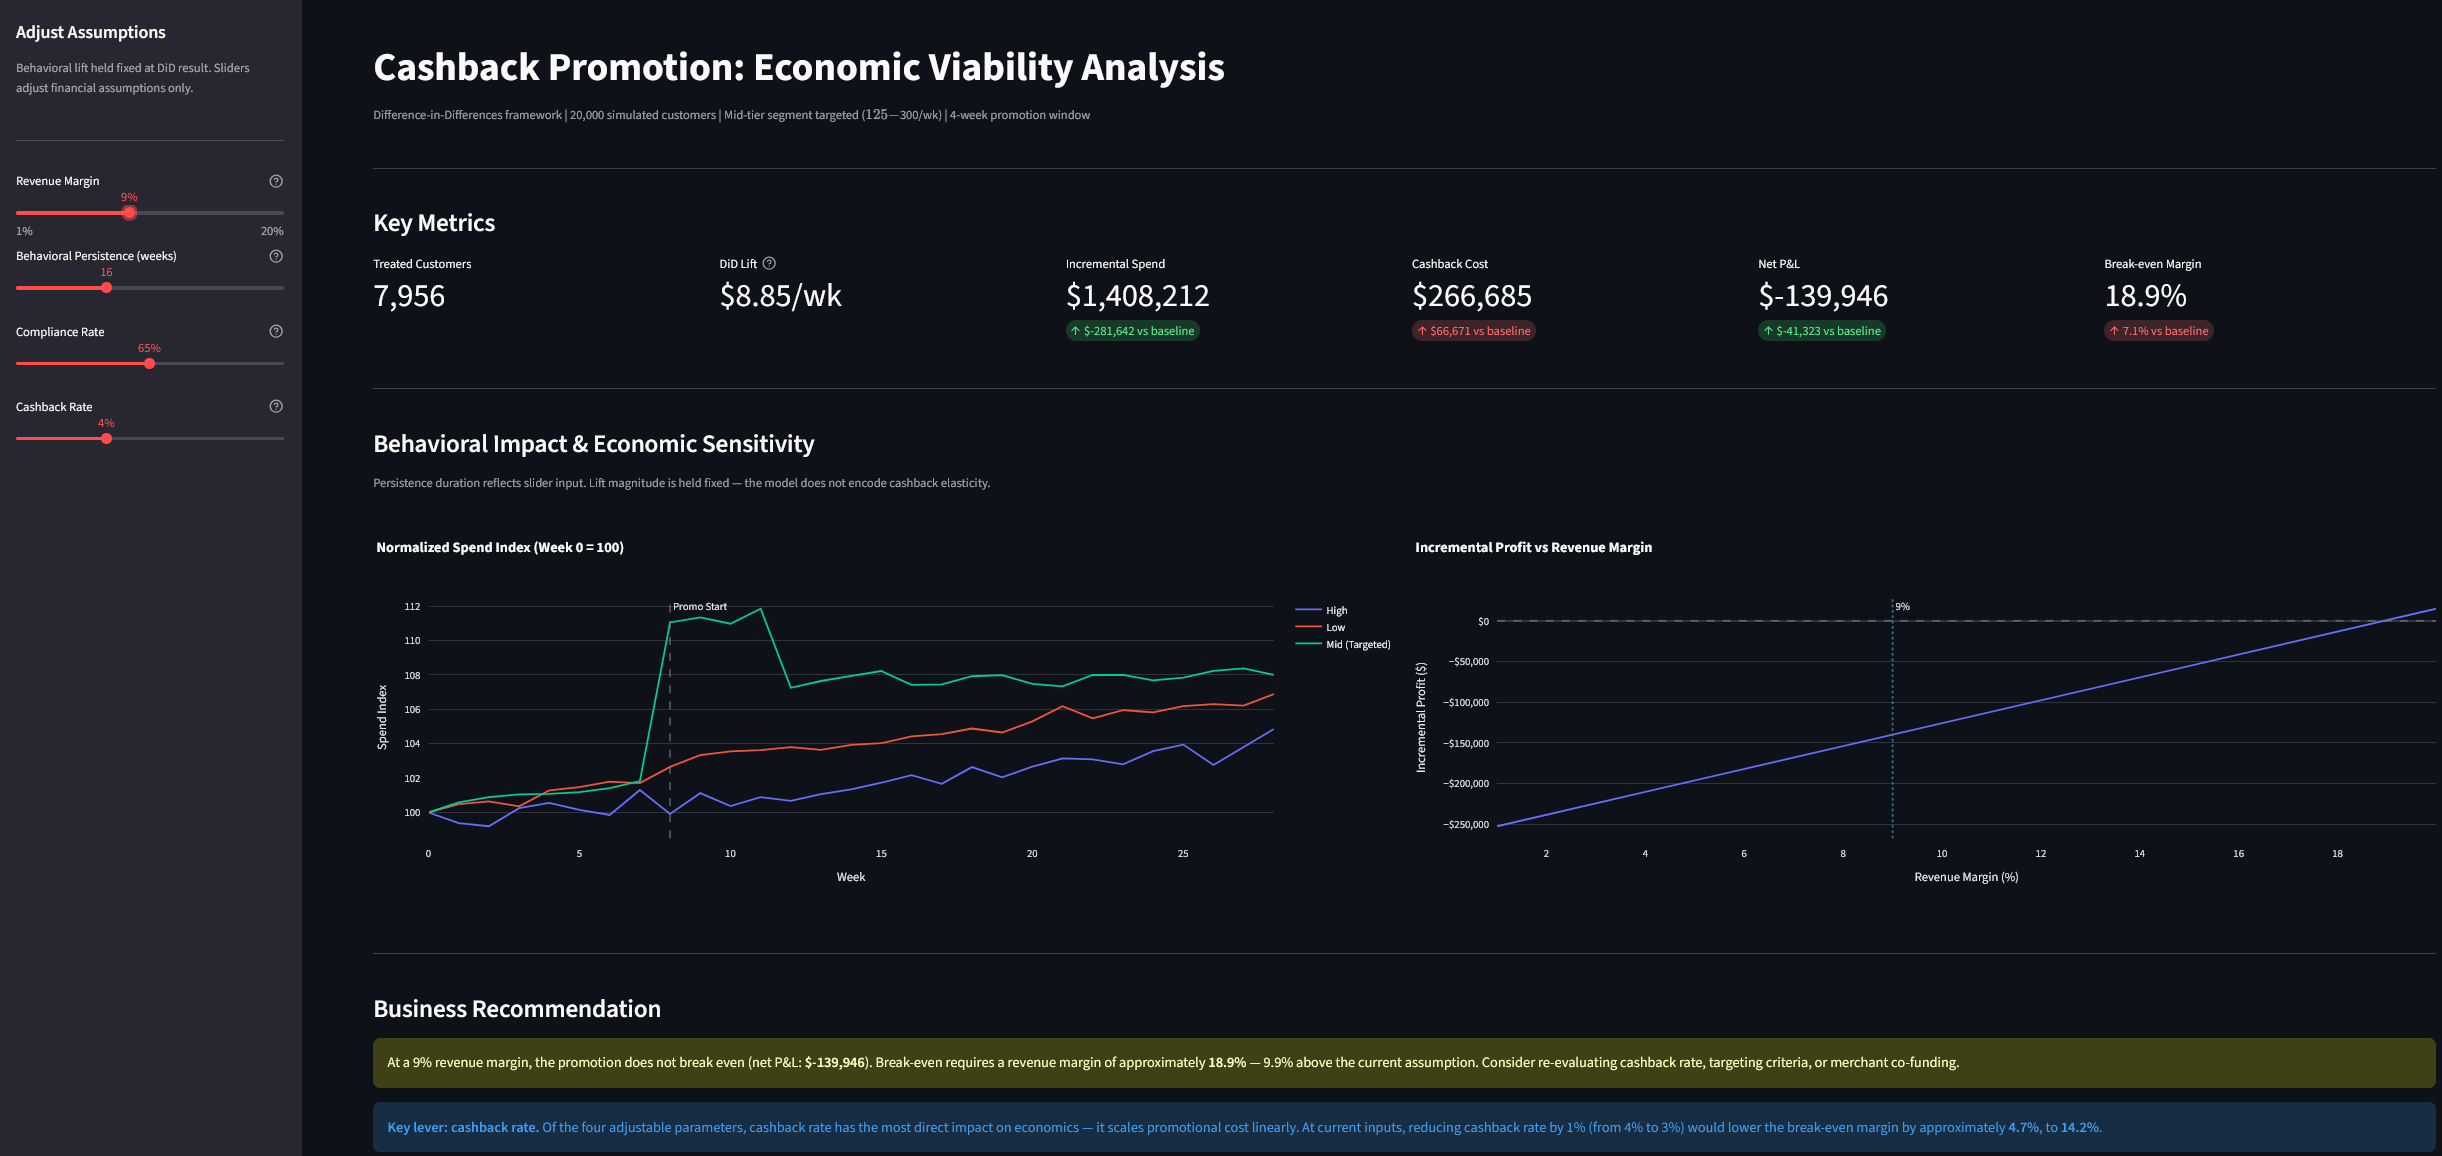
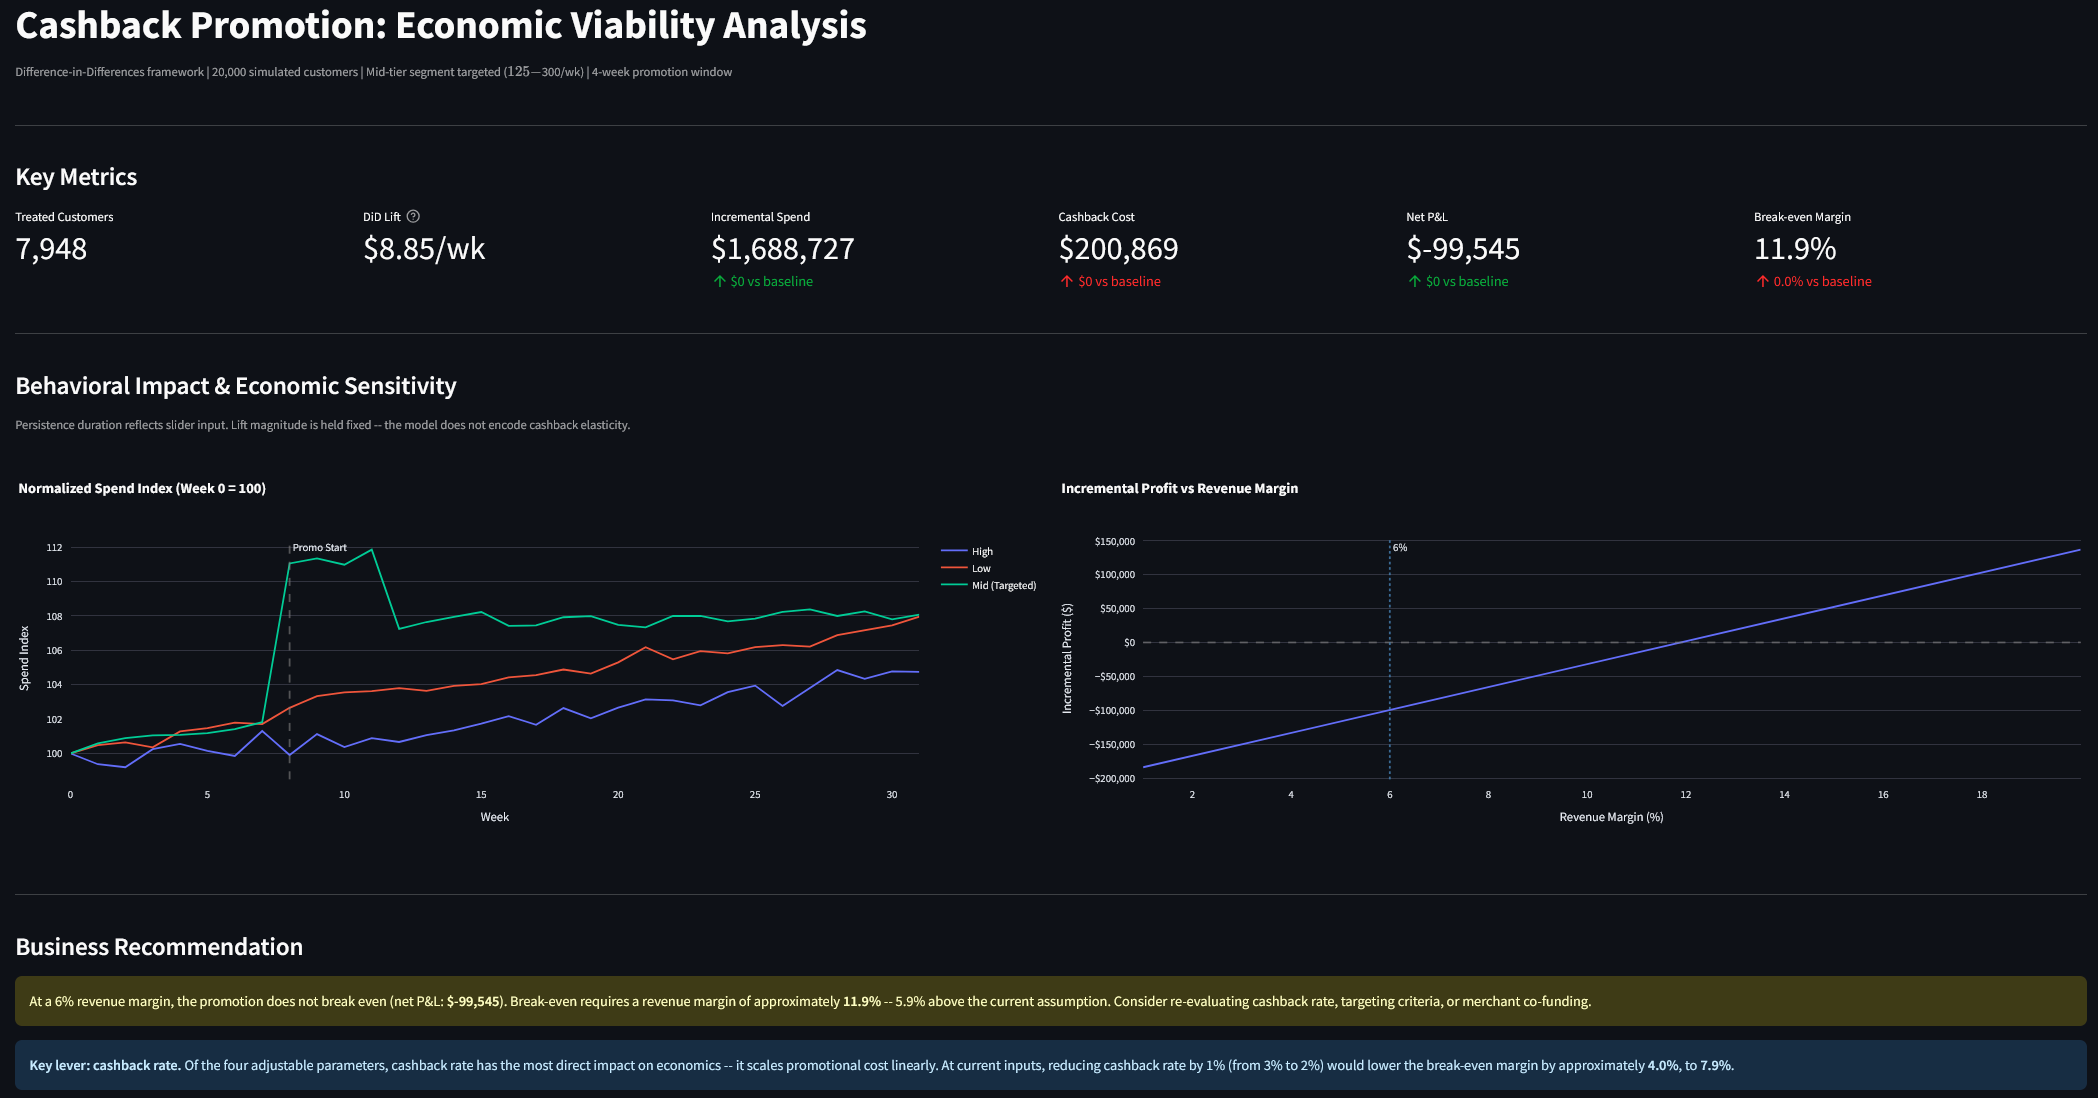
Update docs, requirements and license for portfolio release
README gains a Ground-Truth Validation section, setup steps and two limitations. Pin minimum package versions and add pyarrow and pytest. Add MIT license, refresh dashboard screenshot, bring CLAUDE.md and CHANGELOG up to date.

diff --git a/README.md b/README.md
@@ -40,7 +40,7 @@ Below is normalized spend by segment (Week 0 = 100):
 
 Key observations:
 
-- Parallel pre-trends across segments
+- Parallel pre-trends across segments (in percentage terms; see Ground-Truth Validation for why this matters)
 - Clear mid-tier lift at promotion start
 - Gradual behavioral decay after incentive removal
 - No meaningful effect in non-targeted segments
@@ -62,6 +62,29 @@ Margin sensitivity:
 ![Margin Sensitivity](outputs/figures/margin_sensitivity.png)
 
 Break-even revenue margin required: **~12%**
+
+---
+
+## Ground-Truth Validation
+
+Because the data is simulated, the true causal effect is knowable. `src/validation.py` re-runs the simulation with identical random seeds but the promotion switched off; the difference in treated spend is exactly what the promotion caused.
+
+| Measure | $ / treated customer / week |
+|---|---|
+| DiD estimate | 8.85 |
+| **True causal lift** | **5.91** |
+| Bias (DiD on the no-promotion panel) | 2.94 |
+| &nbsp;&nbsp;from regression-to-mean drift | 1.97 |
+| &nbsp;&nbsp;from level trends + selection | 0.97 |
+
+**DiD overstates the true lift by ~50%.** For a 2x2 DiD the decomposition is exact (`DiD = true lift + placebo DiD`), and the pipeline asserts it on every run.
+
+Two sources of bias:
+
+- **Regression-to-mean drift.** The simulation applies a 1% post-period upward drift to every treated customer. It is indistinguishable from a treatment effect, so DiD absorbs it.
+- **Non-parallel trends in levels.** The macro trend is multiplicative, so higher-spending treated customers gain more *dollars* than control even with identical *percentage* growth. The normalized chart above shows parallel trends in percentages; the regression runs in dollars. Selecting the treated group on noisy pre-period spend adds a small mean-reversion component.
+
+**Implication:** the business conclusion strengthens. At the true lift, break-even margin rises from ~12% to **~18%**. The headline figures above are kept as the DiD estimate because that is what an analyst would observe without ground truth — which is the point. In a real deployment, a log-spend specification or a randomized holdout within the targeted segment would remove most of this bias.
 
 ---
 
@@ -88,6 +111,8 @@ Profitability depends critically on:
 - Compliance rate is modeled as a fixed parameter. In practice, compliance is likely correlated with spend tier and incentive magnitude.
 - Customer independence is assumed. Network or social effects on spending behavior are not modeled.
 - Behavioral persistence follows a pre-specified decay curve. Actual post-promotion decay would vary by customer segment and require holdout measurement.
+- The DiD estimate is biased upward by ~50% relative to the simulation's ground truth (see Ground-Truth Validation). Reported economics use the DiD estimate, so they are optimistic.
+- The dashboard scales a single pooled average lift linearly with persistence weeks. Because the true lift decays, shortening persistence understates the average weekly lift slightly.
 
 ---
 
@@ -114,15 +139,21 @@ streamlit run dashboard.py
 ## Project Structure
 
 ```
-main.py
-dashboard.py
+main.py                   # runs simulation, analysis, validation; writes outputs/
+dashboard.py              # Streamlit app
 src/
-    config.py
-    generate_data.py
-    analysis.py
-    finance.py
-    visuals.py
-    illustrative.py
+    config.py             # all simulation and financial parameters
+    generate_data.py      # customer panel simulation
+    analysis.py           # DiD regression and diagnostics
+    finance.py            # incremental revenue vs. cashback cost
+    validation.py         # ground-truth check of the DiD estimate
+    illustrative.py       # dashboard financial layer (reads simulation_results.json)
+    visuals.py            # matplotlib (static) and Plotly (dashboard) charts
+tests/
+    test_illustrative.py
+outputs/
+    simulation_results.json
+    figures/
 docs/
     dashboard_screenshot.png
 ```
@@ -132,12 +163,22 @@ docs/
 ## How to Run
 
 ```bash
-# Run simulation and generate figures (required before dashboard)
+# Set up environment
+python -m venv .venv
+.venv\Scripts\activate          # Windows; use `source .venv/bin/activate` on macOS/Linux
+python -m pip install -r requirements.txt
+
+# Run simulation, analysis, and validation; regenerates figures and results JSON
 python main.py
 
 # Launch interactive dashboard
 streamlit run dashboard.py
+
+# Run tests
+python -m pytest
 ```
+
+Committed outputs let the dashboard run on a fresh clone; `main.py` regenerates them deterministically (seed 42).
 
 ---
 
@@ -148,9 +189,14 @@ streamlit run dashboard.py
 - statsmodels
 - matplotlib, plotly
 - streamlit
+- pytest
 
 ---
 
 ## Acknowledgements
 
 Developed with [Claude Code](https://claude.com/claude-code) (Anthropic).
+
+## License
+
+MIT -- see [LICENSE](LICENSE).

diff --git a/CLAUDE.md b/CLAUDE.md
@@ -2,8 +2,9 @@
 
 ## Project Status
 
-Two-phase project. Phase 1 (simulation + DiD analysis) is complete.
-Phase 2 (Streamlit dashboard) is planned in PHASE_TWO.md and not yet built.
+Complete. Phase 1 (simulation + DiD analysis) and Phase 2 (Streamlit
+dashboard) are both built; see CHANGELOG.md for history. The repo is
+portfolio-facing, so README accuracy matters.
 
 ---
 
@@ -15,22 +16,40 @@ The dashboard does NOT re-run the simulation on slider change.
 Sliders recalculate the financial layer only:
 
 ```
-incremental_spend = lift * compliant_customers * sum(decay_weights)
-cashback_cost     = cashback_rate * total_treated_spend
+adjusted_lift     = did_lift * (compliance / 0.65)
+incremental_spend = adjusted_lift * treated_customers * (4 + persistence_weeks)
+cashback_cost     = cashback_rate * avg_treated_promo_spend * treated_customers * 4
 net_profit        = (incremental_spend * margin) - cashback_cost
 break_even_margin = cashback_cost / incremental_spend
 ```
 
-This logic will live in `src/illustrative.py`. Do not propose re-running
-`generate_data.py` or `analysis.py` in response to slider input.
+This logic lives in `src/illustrative.py`, which reads its fixed inputs from
+`outputs/simulation_results.json` (written by `main.py`). Do not hard-code
+simulation outputs there. Do not propose re-running `generate_data.py` or
+`analysis.py` in response to slider input.
+
+---
+
+## Ground-Truth Validation: the DiD Estimate Is Biased
+
+`src/validation.py` re-simulates with the promotion off (same seeds) and shows
+DiD overstates the true lift (~$8.85 vs ~$5.91). The bias comes from the
+`REGRESSION_TO_MEAN` drift applied to all treated customers and from running
+DiD in levels on a multiplicative trend. This is documented in the README as a
+finding, deliberately. Do not "fix" the simulation to remove it without
+discussing first -- README figures, PNGs, the results JSON and the dashboard
+screenshot all depend on current outputs.
 
 ---
 
 ## Run Order Dependency
 
-On a fresh clone, `main.py` must be run before `dashboard.py`.
-`main.py` generates `outputs/figures/normalized_segment_trends.png` and
-`outputs/figures/margin_sensitivity.png`, which the dashboard uses.
+`main.py` generates `outputs/simulation_results.json` and the two PNGs in
+`outputs/figures/`. All three are committed, so the dashboard runs on a fresh
+clone. Running `main.py` also writes `outputs/figures/df_panel.parquet`
+(ignored), which enables the interactive segment chart; without it the
+dashboard falls back to the static PNG. After changing `config.py`, re-run
+`main.py` and commit the regenerated outputs.
 
 ```bash
 python main.py
@@ -45,8 +64,8 @@ The existing matplotlib functions (`plot_normalized_segment_trends`,
 `plot_margin_sensitivity`) save static PNGs and are called by `main.py`.
 Do not remove or modify them.
 
-Phase 2 will add Plotly equivalents (`plotly_normalized_segment_trends`,
-`plotly_margin_sensitivity`) that return `Figure` objects for the dashboard.
+The Plotly equivalents (`plotly_normalized_segment_trends`,
+`plotly_margin_sensitivity`) return `Figure` objects for the dashboard.
 These coexist in the same file — that is intentional.
 
 ---
@@ -64,4 +83,6 @@ outputs/figures/*
 !outputs/figures/*.png
 ```
 
-Do not simplify this pattern.
+Do not simplify this pattern. A fifth line, `!outputs/simulation_results.json`,
+works as a direct negation because the file sits directly under `outputs/`
+(whose contents, not the directory itself, are ignored).

diff --git a/CHANGELOG.md b/CHANGELOG.md
@@ -1,5 +1,43 @@
 # Changelog
 
+## Resume Polish -- Ground-Truth Validation (2026-10-06)
+
+### Added
+
+- `src/validation.py` -- re-runs the simulation with identical seeds and the
+  promotion switched off to recover the true causal lift. Finds the DiD
+  estimate ($8.85) overstates the true lift ($5.91) by ~50%, and decomposes
+  the bias into regression-to-mean drift ($1.97) and non-parallel trends in
+  levels plus selection ($0.97). The exact identity
+  `DiD = true lift + placebo DiD` is asserted on every run.
+- `outputs/simulation_results.json` -- simulation outputs and validation
+  results, written by `main.py` and committed so the dashboard runs on a
+  fresh clone
+- `tests/test_illustrative.py` -- unit tests for the dashboard financial layer
+  and the validation decomposition
+- `LICENSE` (MIT), `pytest.ini`
+- README: Ground-Truth Validation section, setup instructions, two new
+  limitations
+
+### Changed
+
+- `src/illustrative.py` reads fixed inputs from the results JSON instead of
+  constants back-derived from rounded README figures. Treated customer count
+  corrected from 7,956 to 7,948; baseline dashboard KPIs now match `main.py`
+  exactly.
+- `src/generate_data.py` -- effect parameters are overridable and a
+  `simulate_panel()` wrapper replaces the inline sequence in `main.py`.
+  Default outputs are unchanged.
+- Mid-tier thresholds moved to `config.py` (`UPPER_WEEKLY_THRESHOLD` added)
+- `config.py` comment on `REGRESSION_TO_MEAN` corrected: the drift applies to
+  all treated customers, not only low spenders
+- `requirements.txt` -- minimum versions pinned; `pyarrow` (used directly by
+  `main.py`) and `pytest` added
+- Dashboard DiD Lift tooltip notes the ground-truth lift
+- CLAUDE.md brought up to date
+
+---
+
 ## Phase 2 -- Interactive Dashboard (2026-04-01)
 
 ### Added
@@ -55,4 +93,4 @@
 - Difference-in-Differences regression with HC3 robust standard errors
 - Financial evaluation: incremental revenue vs. cashback cost
 - Margin sensitivity analysis; break-even margin ~12%
-- Static Plotly-style output charts via matplotlib
+- Static output charts (matplotlib PNGs)
